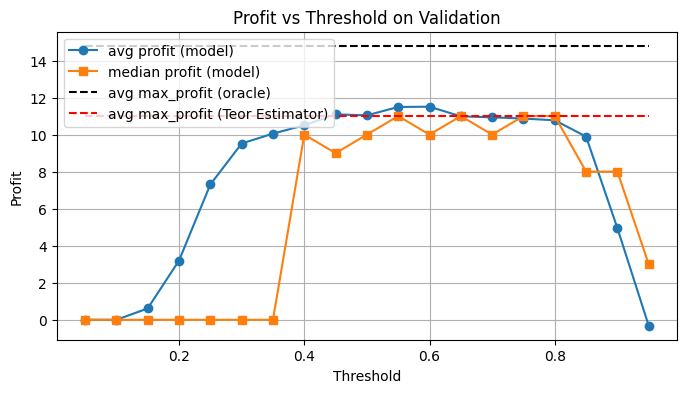
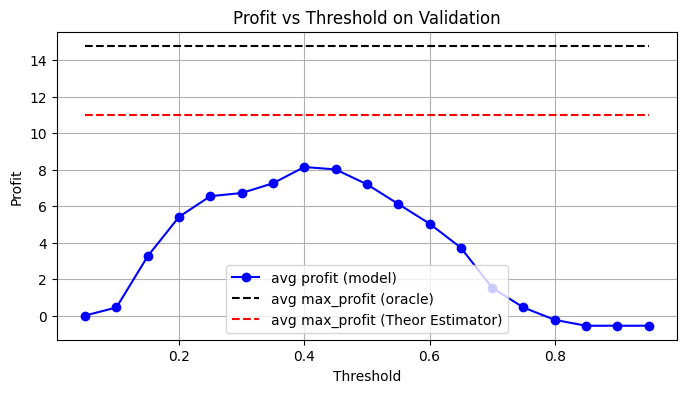
Update final slides

Changed region(s): [[0.0306, 0.0916, 0.9796, 0.855], [0.4286, 0.1527, 0.9796, 0.1832]]

diff --git a/final-slides.tex b/final-slides.tex
@@ -116,6 +116,9 @@
 
 	Правило: продавать, если $ m(n, k) = k $. По определению $ m(n,k) \geq k $.
 
+	Сложность вычислений: предподсчёт за $\mathcal{O}\left((x - y) N^{2}\right)$,
+	решение для конкретного шага за $\mathcal{O}\left(1\right)$.
+
 \end{frame}
 
 \begin{frame}
@@ -176,8 +179,8 @@
 
 	\begin{figure}
 		\centering
-		\includegraphics[width=\linewidth]{./images/sample_trajectories_small_01_cropped.png}
-		\caption{$N=100$}
+		\includegraphics[width=\linewidth]{./images/sample_trajectories_N100_cropped.png}
+		\caption{$N=100$, epochs=$50$}
 	\end{figure}
 
 \end{frame}
@@ -188,7 +191,40 @@
 	\begin{figure}
 		\centering
 		\includegraphics[width=\linewidth]{./images/profit_vs_threshold_validation_N100.png}
-		\caption{$N=100$}
+		\caption{$N=100$, epochs=$50$}
+	\end{figure}
+
+\end{frame}
+
+\begin{frame}
+	\frametitle{Результаты}
+
+	\begin{figure}
+		\centering
+		\includegraphics[width=\linewidth]{./images/profit_vs_threshold_validation_N200.png}
+		\caption{$N=200$, epochs=$50$}
+	\end{figure}
+
+\end{frame}
+
+\begin{frame}
+	\frametitle{Результаты}
+
+	\begin{figure}
+		\centering
+		\includegraphics[width=\linewidth]{./images/profit_vs_threshold_validation_N400.png}
+		\caption{$N=400$, epochs=$50$}
+	\end{figure}
+
+\end{frame}
+
+\begin{frame}
+	\frametitle{Результаты}
+
+	\begin{figure}
+		\centering
+		\includegraphics[width=\linewidth]{./images/profit_vs_threshold_validation_N400b.png}
+		\caption{$N=400$, epochs=$100$}
 	\end{figure}
 
 \end{frame}
@@ -199,14 +235,15 @@
 		\centering
 		\begin{tabular}{lccc}
 			\toprule
-			$N$ & model average & theor average & oracle average \\
+			$N$ & epochs & model average & theor average \\
 			\midrule
-			100 & 6.68          & 6.55          & 7.96           \\
-			200 & 7.99          & 7.83          & 10.36          \\
-			400 & 11.51         & 11.00         & 14.80          \\
+			100 & 50     & \textbf{0.79} & \textbf{0.82} \\
+			200 & 50     & 0.73          & 0.76          \\
+			400 & 50     & \textbf{0.55} & 0.74          \\
+			400 & 100    & \textbf{0.74} & 0.74          \\
 			\bottomrule
 		\end{tabular}
-		\caption{Прибыль модели при наилучшем пороговом значении (threshold) и прибыли при использовании теоретических расчётов $m(n, k)$.}
+		\caption{Прибыль модели при наилучшем пороговом значении (threshold) и прибыль при использовании теоретических расчётов $m(n, k)$. Нормировка на максимальную среднюю прибыль}
 		\label{tab:profit-comparison}
 	\end{table}
 \end{frame}
@@ -215,6 +252,7 @@
 	\frametitle{План}
 
 	\begin{enumerate}
+		\item Новый подход к генерации данных и обучению модели: обучить модель для предсказания оптимальной границы остановки.
 		\item Адаптация для реальных данных.
 	\end{enumerate}
 
